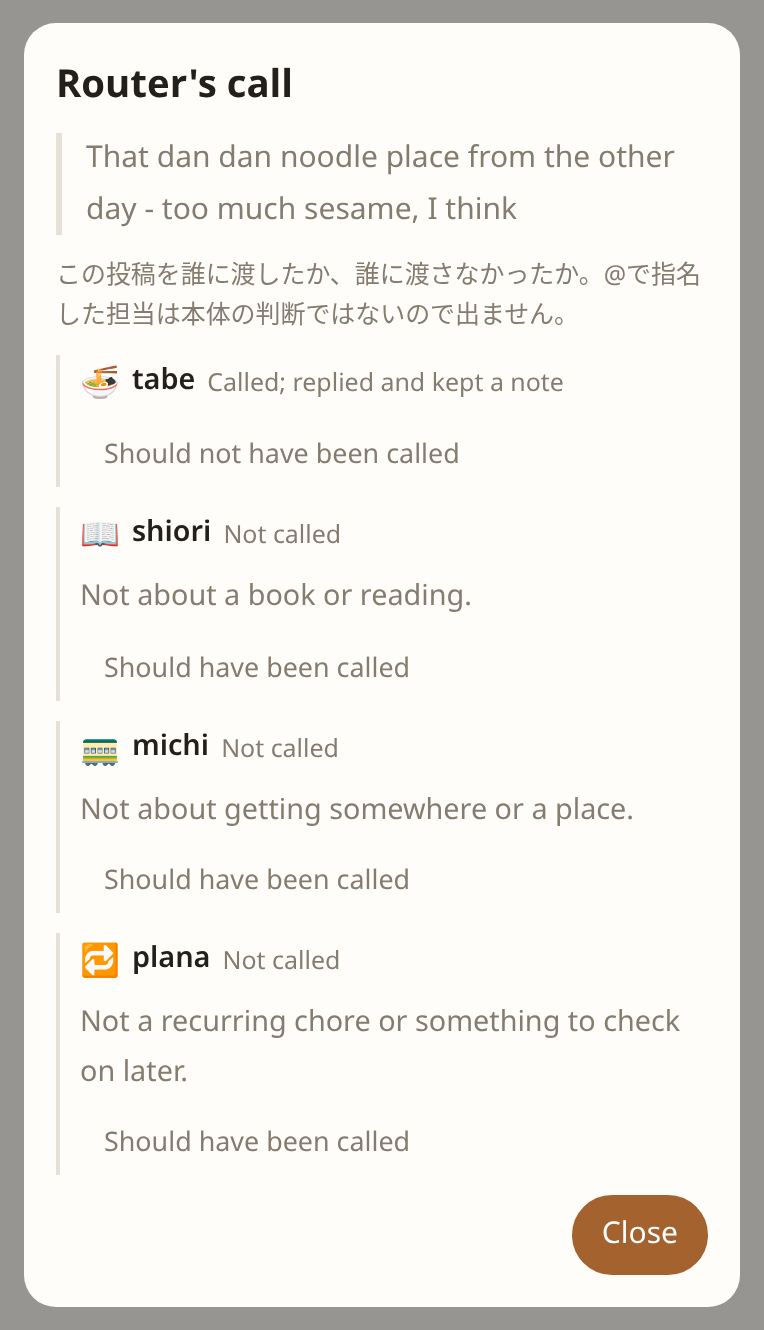
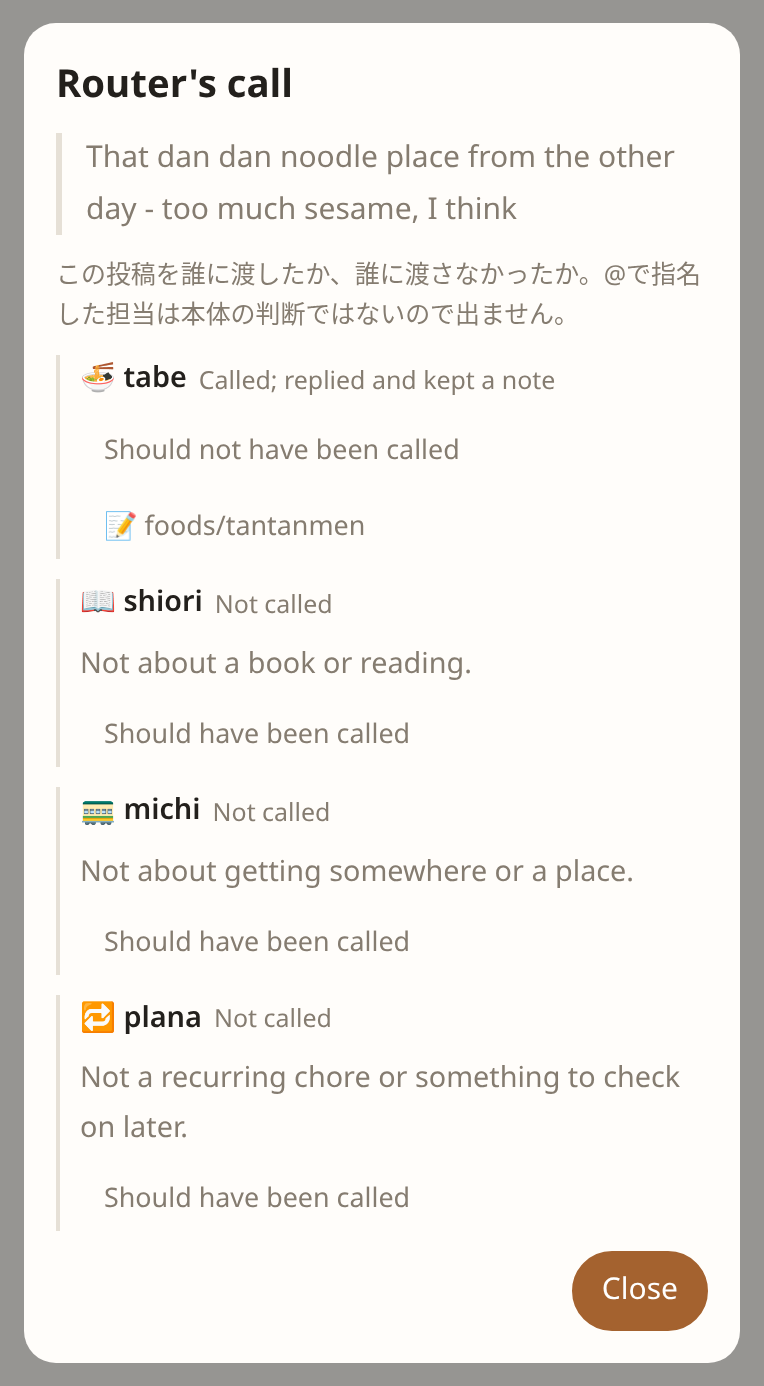
feat: improve routing controls and feedback

diff --git a/frontend/src/settings.js b/frontend/src/settings.js
@@ -20,6 +20,7 @@ export function createSettings({ speaker, onSettings }) {
   let about = null;
   let bluesky = null;
   let openRouterModels = [];
+  let openRouterVerified = false;
   let stopMicCheck = () => {};
 
   async function load() {
@@ -55,6 +56,52 @@ export function createSettings({ speaker, onSettings }) {
     node.addEventListener("change", () => void onChange(node.value));
     return el("label", { class: "field" },
       el("span", { text: t(label) }), node, hint ? el("span", { class: "hint", text: t(hint) }) : null);
+  }
+
+  function modelPicker(label, value, models, onChange) {
+    let selected = value || "";
+    let choices = models;
+    const current = el("span", { class: "model-picker-current", text: selected });
+    const search = el("input", { type: "search", i18nPlaceholder: "モデルを検索" });
+    const list = el("div", { class: "model-picker-list", role: "listbox" });
+    const details = el("details", { class: "model-picker" },
+      el("summary", {}, current), search, list);
+    const render = () => {
+      const query = search.value.trim().toLowerCase();
+      const matching = [...new Set([selected, ...choices].filter(Boolean))]
+        .filter((id) => !query || id.toLowerCase().includes(query))
+        .slice(0, 100);
+      list.replaceChildren(...matching.map((id) => el("button", {
+        type: "button",
+        class: id === selected ? "selected" : "",
+        role: "option",
+        "aria-selected": id === selected ? "true" : "false",
+        text: id,
+        onclick: () => {
+          selected = id;
+          current.textContent = id;
+          details.open = false;
+          search.value = "";
+          render();
+          void onChange(id);
+        },
+      })));
+      if (!matching.length) list.append(el("p", { class: "hint", label: "一致するモデルがありません" }));
+    };
+    search.addEventListener("input", render);
+    details.addEventListener("toggle", () => {
+      if (details.open) {
+        render();
+        search.focus();
+      }
+    });
+    render();
+    const field = el("div", { class: "field" }, el("span", { text: t(label) }), details);
+    field.setModels = (next) => {
+      choices = next;
+      render();
+    };
+    return field;
   }
 
   // Models are not chosen here; the tiers keep their defaults (see the manual).
@@ -108,37 +155,44 @@ export function createSettings({ speaker, onSettings }) {
 	  });
 	const jevEnabled = el("input", { type: "checkbox", checked: !!settings.jevEnabled });
 	const openRouterMode = el("input", { type: "checkbox", checked: !!settings.openRouterMode });
-	jevEnabled.disabled = true;
-	openRouterMode.disabled = true;
+	jevEnabled.disabled = !openRouterVerified;
+	openRouterMode.disabled = !openRouterVerified;
+	const routerPicker = modelPicker("Routerモデル", settings.openRouterRouterModel, openRouterModels, (value) => patch({ openRouterRouterModel: value }));
+	const jevRouter = el("div", { class: "field fixed-model" },
+	  el("span", { label: "Routerモデル" }),
+	  el("strong", { text: "Jev (jev-latest)" }),
+	  el("span", { class: "hint", label: "Jevが有効な間はRouterに固定されます" }));
+	const pickers = [
+	  routerPicker,
+	  modelPicker("Highモデル", settings.openRouterHighModel, openRouterModels, (value) => patch({ openRouterHighModel: value })),
+	  modelPicker("Middleモデル", settings.openRouterMiddleModel, openRouterModels, (value) => patch({ openRouterMiddleModel: value })),
+	  modelPicker("Lowモデル", settings.openRouterLowModel, openRouterModels, (value) => patch({ openRouterLowModel: value })),
+	];
+	const syncRouterModel = () => {
+	  routerPicker.hidden = jevEnabled.checked;
+	  jevRouter.hidden = !jevEnabled.checked;
+	};
 	jevEnabled.addEventListener("change", () => {
+	  syncRouterModel();
 	  void patch({ jevEnabled: jevEnabled.checked });
 	});
 	openRouterMode.addEventListener("change", () => {
 	  void patch({ openRouterMode: openRouterMode.checked });
 	});
-	const modelChoices = (current) => [...new Set([current, ...openRouterModels].filter(Boolean))].map((id) => [id, id]);
-	const pickers = [
-	  select("Routerモデル", settings.openRouterRouterModel, modelChoices(settings.openRouterRouterModel), (value) => patch({ openRouterRouterModel: value })),
-	  select("Highモデル", settings.openRouterHighModel, modelChoices(settings.openRouterHighModel), (value) => patch({ openRouterHighModel: value })),
-	  select("Middleモデル", settings.openRouterMiddleModel, modelChoices(settings.openRouterMiddleModel), (value) => patch({ openRouterMiddleModel: value })),
-	  select("Lowモデル", settings.openRouterLowModel, modelChoices(settings.openRouterLowModel), (value) => patch({ openRouterLowModel: value })),
-	];
 	const refreshPickers = (models) => {
 	  openRouterModels = models;
-	  for (const picker of pickers) {
-	    const node = picker.querySelector("select");
-	    const current = node.value;
-	    node.replaceChildren(...modelChoices(current).map(([id, text]) => el("option", { value: id, text, selected: id === current })));
-	  }
+	  for (const picker of pickers) picker.setModels(models);
 	};
 	const pickerGroup = el("div", { class: "openrouter-models" }, ...pickers,
 	  el("p", { class: "hint", label: "Lowはthinking無効、最大1,024トークン、temperature 0.1で呼び出します" }));
+	syncRouterModel();
 	pickerGroup.hidden = !openRouterMode.checked;
 	openRouterMode.addEventListener("change", () => { pickerGroup.hidden = !openRouterMode.checked; });
 	const openRouterCheck = connectionCheck(
 	  () => patch({ openRouterApiKey: jevKey.querySelector("input").value.trim() }),
 	  { fetchModels: () => api.openRouterModels(), label: "OpenRouterの接続確認", onModels: (models) => {
 	    refreshPickers(models);
+	    openRouterVerified = true;
 	    jevEnabled.disabled = false;
 	    openRouterMode.disabled = false;
 	  } },
@@ -150,6 +204,7 @@ export function createSettings({ speaker, onSettings }) {
 	  el("p", { class: "hint", label: "接続確認が成功すると、JevとOpenRouter専用モードを選べます。" }),
 	  el("label", { class: "field check-field" }, jevEnabled, el("span", { label: "Jevを有効にする" })),
 	  el("p", { class: "hint", label: "Jevは正確で速く、費用が最も安い振り分け専用モデルです。判定理由は表示されません。" }),
+	  jevRouter,
 	  el("label", { class: "field check-field" }, openRouterMode, el("span", { label: "OpenRouter専用モード" })),
 	  el("p", { class: "hint", label: "ONにするとHigh・Middle・LowもOpenRouter経由になります。ツール呼び出しはExactoを使います。" }),
 	  pickerGroup,

diff --git a/frontend/src/feed.js b/frontend/src/feed.js
@@ -18,7 +18,7 @@ import { createVoiceInput } from "./voice_input.js";
 export const SILENCE_NOTE_UNTIL = 3;
 export const showsSilenceNote = (threads) => threads > 0 && threads < SILENCE_NOTE_UNTIL;
 
-export function createFeed({ getPersona, getPersonas, getSettings = () => ({}), onReply, onEntryChange, onSpeak, onFixCondition, onFixReply, onOpenNote, showIntro = true }) {
+export function createFeed({ getPersona, getPersonas, getSettings = () => ({}), onReply, onEntryChange, onSpeak, onFixCondition, onFixReply, onOpenNote, onSelectPersona, showIntro = true }) {
   const view = el("div", { class: "feed" });
   let entries = [];
   let speakingThread = null;
@@ -34,6 +34,21 @@ export function createFeed({ getPersona, getPersonas, getSettings = () => ({}), 
   let composing = false;
   let drawPending = false;
   const offline = () => globalThis.navigator?.onLine === false;
+
+  async function removeEntry(entry, button) {
+    if (!confirm(t("この投稿を消しますか"))) return;
+    button.disabled = true;
+    try {
+      const removed = await api.remove(entry.id);
+      const deleted = { ...entry, ...removed, deleted: true };
+      if (onEntryChange) onEntryChange(deleted);
+      else upsert(deleted);
+    } catch (error) {
+      toast(String(error.message || error), "error");
+    } finally {
+      button.disabled = false;
+    }
+  }
   const updateEditAvailability = () => {
     for (const button of view.querySelectorAll(".edit-post")) {
       button.disabled = offline() || !!postEditor || button.dataset.pending === "true";
@@ -213,22 +228,7 @@ export function createFeed({ getPersona, getPersonas, getSettings = () => ({}), 
           i18nTitle: "消す",
           disabled: !!entry.pending,
           label: "×",
-          onclick: async (event) => {
-            if (!confirm(t("この投稿を消しますか"))) return;
-            const button = event.currentTarget;
-            button.disabled = true;
-            try {
-              const removed = await api.remove(entry.id);
-              const deleted = { ...entry, ...removed, deleted: true };
-              // Apply the successful response even if SSE is delayed or disconnected.
-              if (onEntryChange) onEntryChange(deleted);
-              else upsert(deleted);
-            } catch (error) {
-              toast(String(error.message || error), "error");
-            } finally {
-              button.disabled = false;
-            }
-          },
+          onclick: (event) => void removeEntry(entry, event.currentTarget),
         }),
       ),
     );
@@ -263,7 +263,7 @@ export function createFeed({ getPersona, getPersonas, getSettings = () => ({}), 
       disabled: offline(),
       onclick: async () => {
         routingView?.close();
-        routingView = await showRouting({ entry, getPersona, onFixCondition, onFixReply });
+        routingView = await showRouting({ entry, getPersona, onFixCondition, onFixReply, onSelectPersona, onOpenNote });
       },
     });
   }
@@ -333,6 +333,10 @@ export function createFeed({ getPersona, getPersonas, getSettings = () => ({}), 
         el("span", { class: "who", text: mine ? t("あなた") : persona?.name || entry.speaker }),
         el("span", { class: "at", text: when(entry.at) }),
         drawRoutingChip(entry),
+        mine ? el("button", {
+          class: "chip ghost remove", i18nTitle: "消す", disabled: !!entry.pending, label: "×",
+          onclick: (event) => void removeEntry(entry, event.currentTarget),
+        }) : null,
       ),
       el("p", { class: "said", text: entry.text }),
     );

diff --git a/frontend/src/styles.css b/frontend/src/styles.css
@@ -283,9 +283,21 @@ body.sheet-open .topbar { z-index: 21; }
 .advanced-settings > .compose-row,
 .advanced-settings > .hint,
 .advanced-settings > .openrouter-models { margin-top: 12px; }
+.advanced-settings > [hidden] { display: none; }
 .openrouter-models { display: grid; gap: 12px; }
 .openrouter-models[hidden] { display: none; }
+.openrouter-models > [hidden] { display: none; }
 .openrouter-models > .hint { margin: 0; }
+.fixed-model strong { padding: 8px 10px; border: 1px solid var(--line); border-radius: 9px; background: var(--soft); }
+.model-picker { border: 1px solid var(--line); border-radius: 9px; background: var(--bg); }
+.model-picker summary { padding: 7px 9px; cursor: pointer; overflow-wrap: anywhere; }
+.model-picker[open] { padding-bottom: 6px; }
+.model-picker[open] summary { border-bottom: 1px solid var(--line); margin-bottom: 6px; }
+.model-picker input { width: calc(100% - 12px); margin: 0 6px 6px; }
+.model-picker-list { max-height: 240px; overflow-y: auto; padding: 0 6px; display: grid; gap: 2px; }
+.model-picker-list button { border: 0; border-radius: 6px; padding: 8px; background: transparent; color: inherit; text-align: left; overflow-wrap: anywhere; }
+.model-picker-list button:hover, .model-picker-list button.selected { background: var(--soft); }
+.model-picker-list .hint { padding: 8px; }
 .field.check-field { display: flex; flex-direction: row; align-items: center; gap: 8px; }
 .field.check-field input { width: auto; }
 .field.check-field > span:first-child { color: inherit; font-size: inherit; }
@@ -539,6 +551,8 @@ input[type="text"], input[type="search"], input[type="password"], select, input[
 .routing { display: grid; gap: 10px; }
 .routing-row { display: flex; flex-wrap: wrap; align-items: center; gap: 6px; font-size: 0.9rem; padding-left: 10px; border-left: 2px solid var(--line); }
 .routing-row .who { font-weight: 600; }
+.routing-persona { border: 0; padding: 0; background: none; color: var(--ink); font: inherit; font-weight: 600; cursor: pointer; text-decoration: underline; text-decoration-color: var(--line); text-underline-offset: 3px; }
+.routing-persona:hover { text-decoration-color: currentColor; }
 .routing-verdict { color: var(--muted); font-size: 0.78rem; }
 .routing-reason { color: var(--muted); flex-basis: 100%; }
 .routing-fix { justify-self: start; }

diff --git a/frontend/src/routing-view.js b/frontend/src/routing-view.js
@@ -12,7 +12,7 @@ import { el, toast } from "./dom.js";
 import { api } from "./api.js";
 import { t } from "./i18n.js";
 
-export async function showRouting({ entry, getPersona, onFixCondition, onFixReply }) {
+export async function showRouting({ entry, getPersona, onFixCondition, onFixReply, onSelectPersona, onOpenNote }) {
   let record;
   try {
     record = await api.routing(entry.id);
@@ -63,8 +63,10 @@ export async function showRouting({ entry, getPersona, onFixCondition, onFixRepl
     const row = (item, verdict, fix) => {
       const persona = getPersona?.(item.id);
       return el("div", { class: "routing-row" },
-        el("span", { class: "avatar", text: persona?.icon || item.icon || "◎" }),
-        el("span", { class: "who", text: persona?.name || item.name || item.id }),
+        persona && onSelectPersona ? el("button", {
+          class: "routing-persona", text: `${persona.icon || item.icon || "◎"} ${persona.name || item.name || item.id}`,
+          onclick: () => { close(); onSelectPersona(persona); },
+        }) : el("span", { class: "who", text: `${persona?.icon || item.icon || "◎"} ${persona?.name || item.name || item.id}` }),
         el("span", { class: "routing-verdict", label: verdict }),
         item.reason ? el("span", { class: "routing-reason", text: item.reason }) : null,
         persona && onFixCondition ? el("button", {
@@ -89,6 +91,13 @@ export async function showRouting({ entry, getPersona, onFixCondition, onFixRepl
         line.append(el("button", {
           class: "chip ghost reply-wanted", label: "返事がほしかった",
           onclick: () => { close(); onFixReply({ persona, remark: null, post: current }); },
+        }));
+      }
+      if (persona && onOpenNote) {
+        for (const path of item.notes || []) line.append(el("button", {
+          class: "chip ghost routing-note", text: `📝 ${path.replace(/\.md$/, "")}`,
+          i18nTitle: "この判断で書いたメモを開く",
+          onclick: () => { close(); onOpenNote({ persona, path }); },
         }));
       }
       body.append(line);

diff --git a/frontend/src/i18n.js b/frontend/src/i18n.js
@@ -9,6 +9,9 @@ const EN = {
  "OpenRouter APIキー": "OpenRouter API key",
  "OpenRouter専用モード": "OpenRouter-only mode",
  "Routerモデル": "Router model", "Highモデル": "High model", "Middleモデル": "Middle model", "Lowモデル": "Low model",
+ "モデルを検索": "Search models",
+ "一致するモデルがありません": "No matching models",
+ "Jevが有効な間はRouterに固定されます": "Router is fixed to Jev while Jev is enabled.",
  "JevまたはOpenRouter専用モードに使います。サーバー側だけに保存します": "Used for Jev or OpenRouter-only mode. Stored only on the server.",
  "Jevは投稿の振り分けだけに使います。判定理由は表示されず、jev-latestの更新で挙動が変わることがあります。": "Jev is used only for post routing. It does not show decision reasons, and jev-latest updates may change behavior.",
  "Jevは正確で速く、費用が最も安い振り分け専用モデルです。判定理由は表示されません。": "Jev is an accurate and fast routing model with the lowest cost. It does not show decision reasons.",
@@ -108,6 +111,7 @@ const EN = {
   "メモの分類（型と、それぞれに書くこと）": "Note kinds (each kind, and what goes in it)", "メモの分類": "Note kinds",
   "メモの本文": "Note text", "メモを保存": "Save note", "メモを保存しました": "Note saved.",
   "この発言と一緒に書いたメモを開く": "Open the note written with this remark",
+  "この判断で書いたメモを開く": "Open the note written for this decision",
   "担当が書いたメモです。綴りや事実の誤りはここで直せます。下の「記憶を更新した投稿」のリンクはそのまま残ります。": "This is the persona's own note. Fix a misspelling or a wrong fact here; the links under \"Posts behind this memory\" stay as they are.",
   "元の投稿を開く（新しいタブ）": "Open original post (new tab)",
   "まだ覚えていることはありません。": "Nothing remembered yet.",

diff --git a/tests/feed.test.js b/tests/feed.test.js
@@ -202,6 +202,27 @@ test("a failed delete keeps the post and allows retry", async (t) => {
   assert.equal(toasts.children[0].textContent, "offline");
 });
 
+test("the user's own reply can be deleted", async (t) => {
+  const post = { id: "p", kind: "post", speaker: "user", root: "p", text: "root", at: "2026-09-13T00:00:00Z" };
+  const reply = { id: "u", kind: "reply", speaker: "user", root: "p", replyTo: "p", text: "my reply", at: "2026-09-13T00:01:00Z" };
+  t.mock.method(api, "remove", async () => ({ ...reply, deleted: true }));
+  globalThis.Node = TestNode;
+  globalThis.document = { createElement: () => new TestNode(), activeElement: null };
+  globalThis.confirm = () => true;
+  t.after(() => { delete globalThis.Node; delete globalThis.document; delete globalThis.confirm; });
+  let feed;
+  feed = createFeed({ getPersona: () => null, onEntryChange: (entry) => feed.upsert(entry), showIntro: false });
+  feed.set([post, reply]);
+  feed.reveal(reply.id);
+  const buttons = feed.element.querySelectorAll(".remove");
+  assert.equal(buttons.length, 2, "the post and the user's reply both have delete controls");
+  buttons[1].fire("click", { currentTarget: buttons[1] });
+  await new Promise(setImmediate);
+  assert.equal(api.remove.mock.calls[0].arguments[0], reply.id);
+  assert.equal(feed.element.querySelectorAll(".said-row.mine").length, 0);
+  assert.equal(feed.element.querySelectorAll(".thread").length, 1);
+});
+
 test("persona builder dictates with saved settings, sends, and stops on close", async (t) => {
   const { showPersonaBuilder } = await import("../frontend/src/persona-builder.js");
   t.mock.method(api, "buildPersona", async () => ({ message: "続けて教えてください", draft: null }));

diff --git a/frontend/stories/fixtures.js b/frontend/stories/fixtures.js
@@ -114,7 +114,7 @@ export function routing() {
   return {
     p1: {
       recorded: true,
-      delivered: [{ id: "gourmet", name: "tabe", icon: "🍜", done: true, spoke: true, noted: true }],
+      delivered: [{ id: "gourmet", name: "tabe", icon: "🍜", done: true, spoke: true, noted: true, notes: ["foods/tantanmen.md"] }],
       excluded: [
         { id: "book", name: "shiori", icon: "📖", reason: w.notBook },
         { id: "move", name: "michi", icon: "🚃", reason: w.notTravel },

diff --git a/frontend/src/app.js b/frontend/src/app.js
@@ -48,6 +48,7 @@ const feed = createFeed({
   onFixCondition: (args) => showConditionFix({ ...args, onSaved: () => personas.load({ quiet: true }) }),
   onFixReply: (args) => showReplyFix({ ...args, onSaved: () => personas.load({ quiet: true }) }),
   onOpenNote: ({ persona, path }) => void personas.showMemoryFor(persona, path),
+  onSelectPersona: (persona) => { open("personas"); personas.reveal(persona.id); },
 });
 const compose = createCompose({
   getSettings: () => settings,

diff --git a/internal/server/routing.go b/internal/server/routing.go
@@ -23,6 +23,9 @@ type routingRow struct {
 	Spoke *bool `json:"spoke,omitempty"`
 	// Noted: whether one of its notes cites this post as a source.
 	Noted *bool `json:"noted,omitempty"`
+	// Notes are the paths written from this post, so even a quiet turn leads
+	// directly to what it remembered.
+	Notes []string `json:"notes,omitempty"`
 }
 
 func (s *Server) routingRow(id, reason string) routingRow {
@@ -80,9 +83,12 @@ func (s *Server) getRouting(w http.ResponseWriter, r *http.Request) {
 			for _, source := range store.NoteSources(note.Text) {
 				if source.EntryID == entry.ID {
 					noted = true
+					row.Notes = append(row.Notes, note.Path)
+					break
 				}
 			}
 		}
+		sort.Strings(row.Notes)
 		row.Done, row.Spoke, row.Noted = &finished, &said, &noted
 		delivered = append(delivered, row)
 	}

diff --git a/internal/server/routing_test.go b/internal/server/routing_test.go
@@ -246,6 +246,9 @@ func TestRoutingSaysWhoFinishedAndWhoSpoke(t *testing.T) {
 	if rows["gourmet"]["done"] != true || rows["gourmet"]["spoke"] != true || rows["gourmet"]["noted"] != true {
 		t.Fatalf("gourmet = %v", rows["gourmet"])
 	}
+	if notes, ok := rows["gourmet"]["notes"].([]any); !ok || len(notes) != 1 || notes[0] != "shops/ramen.md" {
+		t.Fatalf("gourmet note links = %v", rows["gourmet"]["notes"])
+	}
 	if rows["move"]["noted"] != false {
 		t.Fatalf("a persona without a note on this post = %v", rows["move"])
 	}
